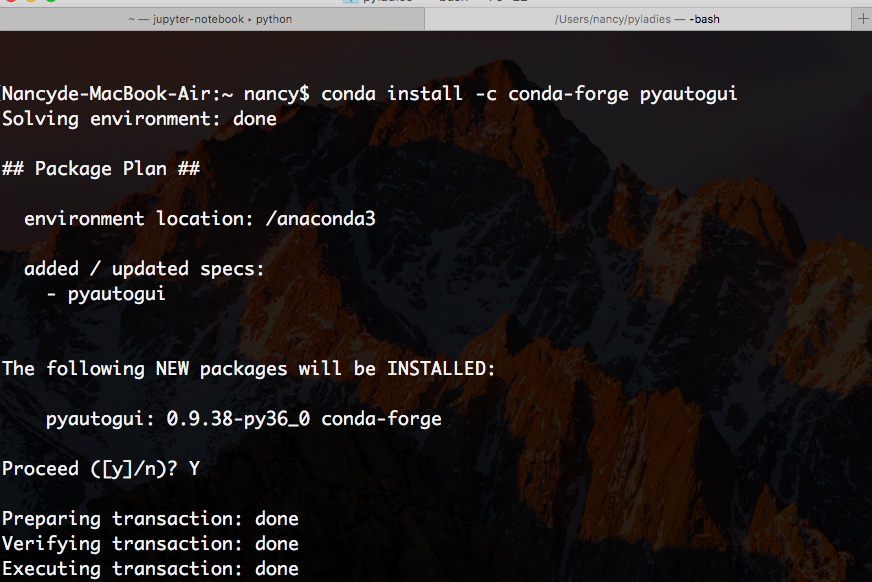
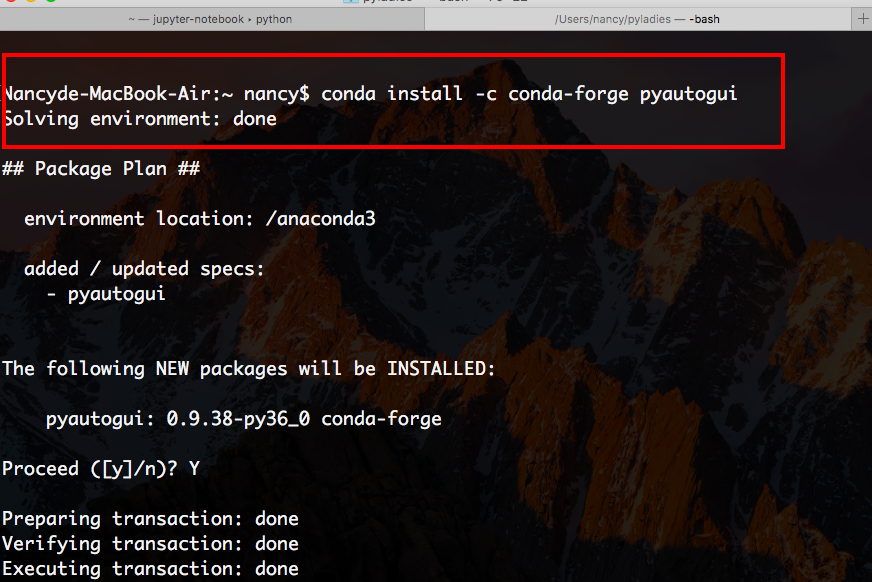
highlight image; change order of mouseRGB slides

Changed region(s): [[0.0, 0.0928, 0.8979, 0.2784]]

diff --git a/Day5_Python_Control_MouseKeyboard.slides.html b/Day5_Python_Control_MouseKeyboard.slides.html
@@ -12374,7 +12374,15 @@ conda install -c conda-forge pyautogui</code></pre>
 </div>
 <div class="inner_cell">
 <div class="text_cell_render border-box-sizing rendered_html">
-<h1 id="Program-File">Program File<a class="anchor-link" href="#Program-File">&#182;</a></h1><h3 id="Please-download-WhereIsMouse.py-and-execute-WhereIsMouse.py-in-terminal.">Please download <a href="code/WhereIsMouse.py">WhereIsMouse.py</a> and execute WhereIsMouse.py in terminal.<a class="anchor-link" href="#Please-download-WhereIsMouse.py-and-execute-WhereIsMouse.py-in-terminal.">&#182;</a></h3><h3 id="Or-execute-program-below-on-Jupyter-notebook">Or execute program below on Jupyter notebook<a class="anchor-link" href="#Or-execute-program-below-on-Jupyter-notebook">&#182;</a></h3><div class="highlight"><pre><span></span><span class="kn">from</span> <span class="nn">IPython.display</span> <span class="kn">import</span> <span class="n">display</span><span class="p">,</span> <span class="n">clear_output</span>
+<h1 id="Program-File">Program File<a class="anchor-link" href="#Program-File">&#182;</a></h1><h3 id="Please-download-WhereIsMouse.py-and-execute-WhereIsMouse.py-in-terminal.">Please download <a href="code/WhereIsMouse.py">WhereIsMouse.py</a> and execute WhereIsMouse.py in terminal.<a class="anchor-link" href="#Please-download-WhereIsMouse.py-and-execute-WhereIsMouse.py-in-terminal.">&#182;</a></h3><h3 id="Or-execute-program-below-on-Jupyter-notebook">Or execute program below on Jupyter notebook<a class="anchor-link" href="#Or-execute-program-below-on-Jupyter-notebook">&#182;</a></h3>
+</div>
+</div>
+</div>
+<div class="cell border-box-sizing text_cell rendered"><div class="prompt input_prompt">
+</div>
+<div class="inner_cell">
+<div class="text_cell_render border-box-sizing rendered_html">
+<div class="highlight"><pre><span></span><span class="kn">from</span> <span class="nn">IPython.display</span> <span class="kn">import</span> <span class="n">display</span><span class="p">,</span> <span class="n">clear_output</span>
 <span class="kn">import</span> <span class="nn">pyautogui</span>
 <span class="kn">import</span> <span class="nn">time</span>
 
@@ -12518,18 +12526,10 @@ conda install -c conda-forge pyautogui</code></pre>
 <li>Draw something by pyautogui
 <img src="Img/draw_on_sketch.png" height="300" width="540"></img></li>
 </ul>
-
-</div>
-</div>
-</div></div></section><section>
-<div class="cell border-box-sizing text_cell rendered"><div class="prompt input_prompt">
-</div>
-<div class="inner_cell">
-<div class="text_cell_render border-box-sizing rendered_html">
 <h3 id="Demo">Demo<a class="anchor-link" href="#Demo">&#182;</a></h3>
 </div>
 </div>
-</div></section><section>
+</div></div></section><section>
 <div class="cell border-box-sizing text_cell rendered"><div class="prompt input_prompt">
 </div>
 <div class="inner_cell">
@@ -12577,8 +12577,10 @@ conda install -c conda-forge pyautogui</code></pre>
 <div class="inner_cell">
     <div class="input_area">
 <div class=" highlight hl-ipython3"><pre><span></span><span class="kn">import</span> <span class="nn">pyautogui</span>
+<span class="kn">import</span> <span class="nn">time</span>
 <span class="n">pyautogui</span><span class="o">.</span><span class="n">moveRel</span><span class="p">(</span><span class="mi">0</span><span class="p">,</span><span class="mi">200</span><span class="p">,</span> <span class="n">duration</span><span class="o">=</span><span class="mi">1</span><span class="p">)</span>
 <span class="k">for</span> <span class="n">i</span> <span class="ow">in</span> <span class="nb">range</span><span class="p">(</span><span class="mi">3</span><span class="p">):</span>
+    <span class="n">time</span><span class="o">.</span><span class="n">sleep</span><span class="p">(</span><span class="mi">2</span><span class="p">)</span>
     <span class="n">pyautogui</span><span class="o">.</span><span class="n">scroll</span><span class="p">(</span><span class="o">-</span><span class="mi">3</span><span class="p">)</span>
 </pre></div>
 
@@ -12822,35 +12824,6 @@ conda install -c conda-forge pyautogui</code></pre>
 </div>
 <div class="inner_cell">
 <div class="text_cell_render border-box-sizing rendered_html">
-<h3 id="Add-below-code-into-WhereIsMouse.py">Add below code into WhereIsMouse.py<a class="anchor-link" href="#Add-below-code-into-WhereIsMouse.py">&#182;</a></h3>
-</div>
-</div>
-</div>
-<div class="cell border-box-sizing text_cell rendered"><div class="prompt input_prompt">
-</div>
-<div class="inner_cell">
-<div class="text_cell_render border-box-sizing rendered_html">
-<div class="highlight"><pre><span></span><span class="n">pixelColor</span> <span class="o">=</span> <span class="n">pyautogui</span><span class="o">.</span><span class="n">screenshot</span><span class="p">()</span><span class="o">.</span><span class="n">getpixel</span><span class="p">((</span><span class="n">x</span><span class="p">,</span> <span class="n">y</span><span class="p">))</span>
-<span class="n">positionStr</span> <span class="o">+=</span> <span class="s1">&#39; RGB: (&#39;</span> <span class="o">+</span> <span class="nb">str</span><span class="p">(</span><span class="n">pixelColor</span><span class="p">[</span><span class="mi">0</span><span class="p">])</span><span class="o">.</span><span class="n">rjust</span><span class="p">(</span><span class="mi">3</span><span class="p">)</span>
-<span class="n">positionStr</span> <span class="o">+=</span> <span class="s1">&#39;, &#39;</span> <span class="o">+</span> <span class="nb">str</span><span class="p">(</span><span class="n">pixelColor</span><span class="p">[</span><span class="mi">1</span><span class="p">])</span><span class="o">.</span><span class="n">rjust</span><span class="p">(</span><span class="mi">3</span><span class="p">)</span>
-<span class="n">positionStr</span> <span class="o">+=</span> <span class="s1">&#39;, &#39;</span> <span class="o">+</span> <span class="nb">str</span><span class="p">(</span><span class="n">pixelColor</span><span class="p">[</span><span class="mi">2</span><span class="p">])</span><span class="o">.</span><span class="n">rjust</span><span class="p">(</span><span class="mi">3</span><span class="p">)</span> <span class="o">+</span> <span class="s1">&#39;)&#39;</span>
-</pre></div>
-
-</div>
-</div>
-</div></section><section>
-<div class="cell border-box-sizing text_cell rendered"><div class="prompt input_prompt">
-</div>
-<div class="inner_cell">
-<div class="text_cell_render border-box-sizing rendered_html">
-<h3 id="Download-full-code-here-WhereIsMouse_WithRBG.py">Download full code here <a href="code/WhereIsMouse_WithRBG.py">WhereIsMouse_WithRBG.py</a><a class="anchor-link" href="#Download-full-code-here-WhereIsMouse_WithRBG.py">&#182;</a></h3>
-</div>
-</div>
-</div>
-<div class="cell border-box-sizing text_cell rendered"><div class="prompt input_prompt">
-</div>
-<div class="inner_cell">
-<div class="text_cell_render border-box-sizing rendered_html">
 <div class="highlight"><pre><span></span><span class="ch">#! python</span>
 <span class="kn">import</span> <span class="nn">pyautogui</span>
 <span class="k">print</span><span class="p">(</span><span class="s1">&#39;Press Ctrl-C to quit.&#39;</span><span class="p">)</span>
@@ -12867,6 +12840,27 @@ conda install -c conda-forge pyautogui</code></pre>
         <span class="k">print</span><span class="p">(</span><span class="s1">&#39;</span><span class="se">\b</span><span class="s1">&#39;</span> <span class="o">*</span> <span class="nb">len</span><span class="p">(</span><span class="n">positionStr</span><span class="p">),</span> <span class="n">end</span><span class="o">=</span><span class="s1">&#39;&#39;</span><span class="p">,</span> <span class="n">flush</span><span class="o">=</span><span class="bp">True</span><span class="p">)</span>
 <span class="k">except</span> <span class="ne">KeyboardInterrupt</span><span class="p">:</span>
     <span class="k">print</span><span class="p">(</span><span class="s1">&#39;</span><span class="se">\n</span><span class="s1">Done.&#39;</span><span class="p">)</span>
+</pre></div>
+
+</div>
+</div>
+</div></section><section>
+<div class="cell border-box-sizing text_cell rendered"><div class="prompt input_prompt">
+</div>
+<div class="inner_cell">
+<div class="text_cell_render border-box-sizing rendered_html">
+<h3 id="Download-full-code-here-WhereIsMouse_WithRBG.py">Download full code here <a href="code/WhereIsMouse_WithRBG.py">WhereIsMouse_WithRBG.py</a><a class="anchor-link" href="#Download-full-code-here-WhereIsMouse_WithRBG.py">&#182;</a></h3><h3 id="Add-below-code-into-WhereIsMouse.py">Add below code into WhereIsMouse.py<a class="anchor-link" href="#Add-below-code-into-WhereIsMouse.py">&#182;</a></h3>
+</div>
+</div>
+</div>
+<div class="cell border-box-sizing text_cell rendered"><div class="prompt input_prompt">
+</div>
+<div class="inner_cell">
+<div class="text_cell_render border-box-sizing rendered_html">
+<div class="highlight"><pre><span></span><span class="n">pixelColor</span> <span class="o">=</span> <span class="n">pyautogui</span><span class="o">.</span><span class="n">screenshot</span><span class="p">()</span><span class="o">.</span><span class="n">getpixel</span><span class="p">((</span><span class="n">x</span><span class="p">,</span> <span class="n">y</span><span class="p">))</span>
+<span class="n">positionStr</span> <span class="o">+=</span> <span class="s1">&#39; RGB: (&#39;</span> <span class="o">+</span> <span class="nb">str</span><span class="p">(</span><span class="n">pixelColor</span><span class="p">[</span><span class="mi">0</span><span class="p">])</span><span class="o">.</span><span class="n">rjust</span><span class="p">(</span><span class="mi">3</span><span class="p">)</span>
+<span class="n">positionStr</span> <span class="o">+=</span> <span class="s1">&#39;, &#39;</span> <span class="o">+</span> <span class="nb">str</span><span class="p">(</span><span class="n">pixelColor</span><span class="p">[</span><span class="mi">1</span><span class="p">])</span><span class="o">.</span><span class="n">rjust</span><span class="p">(</span><span class="mi">3</span><span class="p">)</span>
+<span class="n">positionStr</span> <span class="o">+=</span> <span class="s1">&#39;, &#39;</span> <span class="o">+</span> <span class="nb">str</span><span class="p">(</span><span class="n">pixelColor</span><span class="p">[</span><span class="mi">2</span><span class="p">])</span><span class="o">.</span><span class="n">rjust</span><span class="p">(</span><span class="mi">3</span><span class="p">)</span> <span class="o">+</span> <span class="s1">&#39;)&#39;</span>
 </pre></div>
 
 </div>
